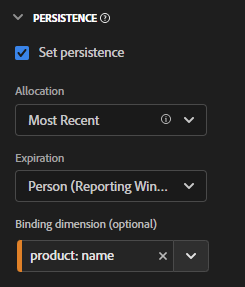
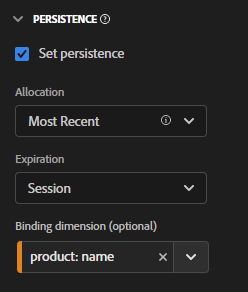
Binding example 1

diff --git a/help/use-cases/binding-dimensions-metrics.md b/help/use-cases/binding-dimensions-metrics.md
@@ -9,7 +9,81 @@ Customer Journey Analytics offers several ways to persist dimension values beyon
 
 While you can use binding dimensions with top-level event data, this concept is best used when working with [Arrays of objects](object-arrays.md). You can attribute a dimension to one part of an object array without applying it to all of the attributes in a given event. For example, you can attribute a search term to one product in your shopping cart object array without binding that search term to the entire event.
 
-## Example 2: Using binding metrics to tie search term to a product purchase
+## Example 1: Use binding dimensions to attribute additional product attributes to a purchase
+
+You can bind dimension items within an object array to another dimension. When the bound dimension item appears, CJA recalls the bound dimension and includes it in the event for you. Consider the following customer journey:
+
+1. A visitor views a product page on a washing machine.
+
+    ```json
+    {
+        "PersonID": "1",
+        "product_views": 1,
+        "product": [
+            {
+                "name": "Washing Machine 2000",
+                "color": "white",
+                "type": "front loader",
+            },
+        ],
+        "timestamp": 1534219229
+    }
+    ```
+
+1. The visitor then views a product page on a dryer.
+
+    ```json
+    {
+        "PersonID": "1",
+        "product_views": 1,
+        "product": [
+            {
+                "name": "Dryer 2000",
+                "color": "neon orange",
+            },
+        ],
+        "timestamp": 1534219502
+    }
+    ```
+
+1. Ultimately they make a purchase. The color of each product wasn't included in the purchase event.
+
+    ```json
+    {
+        "PersonID": "1",
+        "orders": 1,
+        "product": [
+            {
+                "name": "Washing Machine 2000",
+                "price": 1600,
+            },
+            {
+                "name": "Dryer 2000",
+                "price": 499
+            }
+        ],
+        "timestamp": 1534219768
+    }
+    ```
+
+If you wanted to look at revenue by color without a binding dimension, the dimension `product.color` persists and incorrectly attributes credit to the dryer's color:
+
+product.color | revenue
+--- | ---
+neon orange | 2099
+
+You can go into the Data View Manager and bind product color to product name:
+
+![Binding dimension](assets/binding-dimension.png)
+
+When you set this persistence model, Adobe takes note of the product name whenever product color is set. When it recognizes the same product name in a subsequent event for this visitor, the product color is brought over as well. The same data when you bind product color to product name would look similar to the following:
+
+product.color | revenue
+--- | ---
+white | 1600
+neon orange | 499
+
+## Example 2: Use binding metrics to tie search term to a product purchase
 
 One of the most common merchandising methods in Adobe Analytics has been to bind a search term to a product so each search term gets credit for it's appropriate product. Consider the following customer journey:
 
@@ -198,11 +272,7 @@ If you used last allocation with the search term dimension, all three products s
 
 While this example includes only one visitor, many visitors who search for different things can misattribute search terms to different products, making it difficult to determine what the best search results actually are.
 
-With a binding dimension, Adobe takes note of the dimension item that it is bound to. When that same binding value is seen in a subsequent event, it brings over the dimension item so that you can attribute the desired metric to it. In this example, we can set the binding dimension for search_term to product name:
-
-![Binding dimension](assets/binding-dimension.png)
-
-When we set this dimension in the Data View manager, we are also required to set a binding metric because the binding dimension is in an object array. A binding metric acts as a trigger for a binding dimension, so it only binds itself on events where the binding metric is present. In this example implementation, the search results page always includes a search term dimension and a searches metric. We can bind search terms to product name whenever the Searches metric is present.
+With a binding dimension, Adobe takes note of the dimension item that it is bound to. When that same binding value is seen in a subsequent event, it brings over the dimension item so that you can attribute the desired metric to it. In this example, we can set the binding dimension for search_term to product name. When we set this dimension in the Data View manager, we are also required to set a binding metric because the binding dimension is in an object array. A binding metric acts as a trigger for a binding dimension, so it only binds itself on events where the binding metric is present. In this example implementation, the search results page always includes a search term dimension and a searches metric. We can bind search terms to product name whenever the Searches metric is present.
 
 ![Binding metric](assets/binding-metric.png)
 
